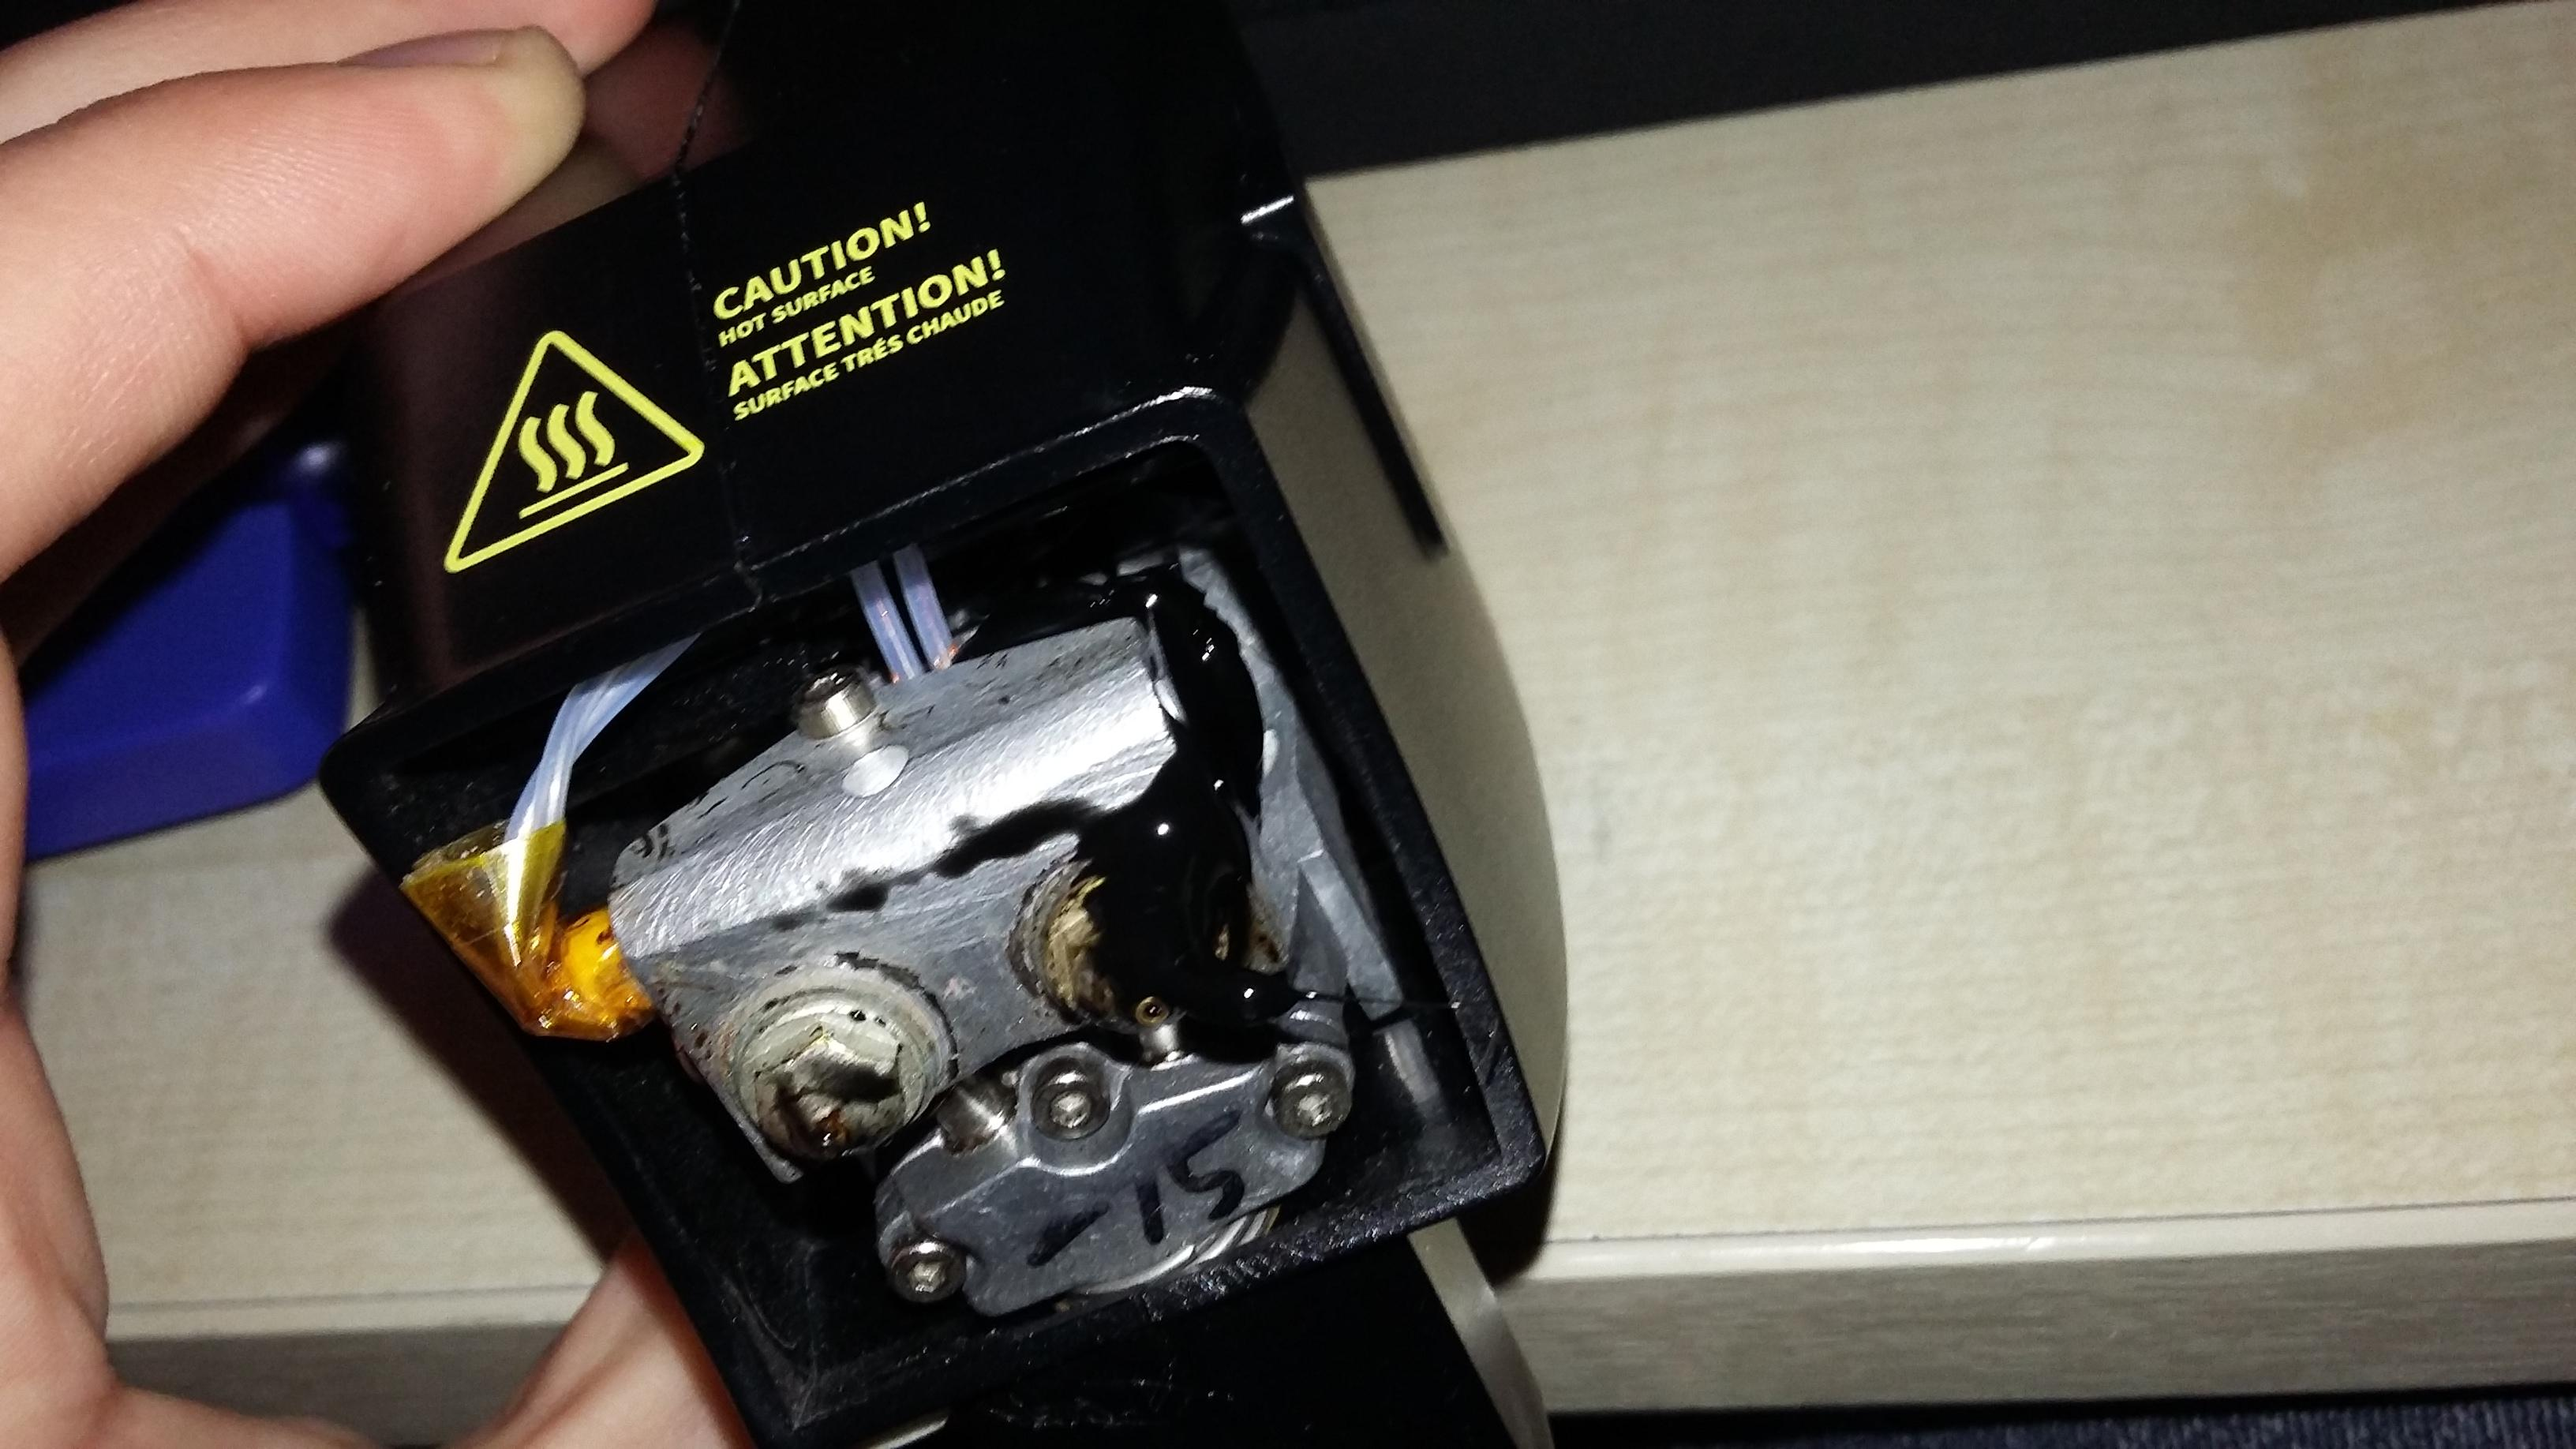
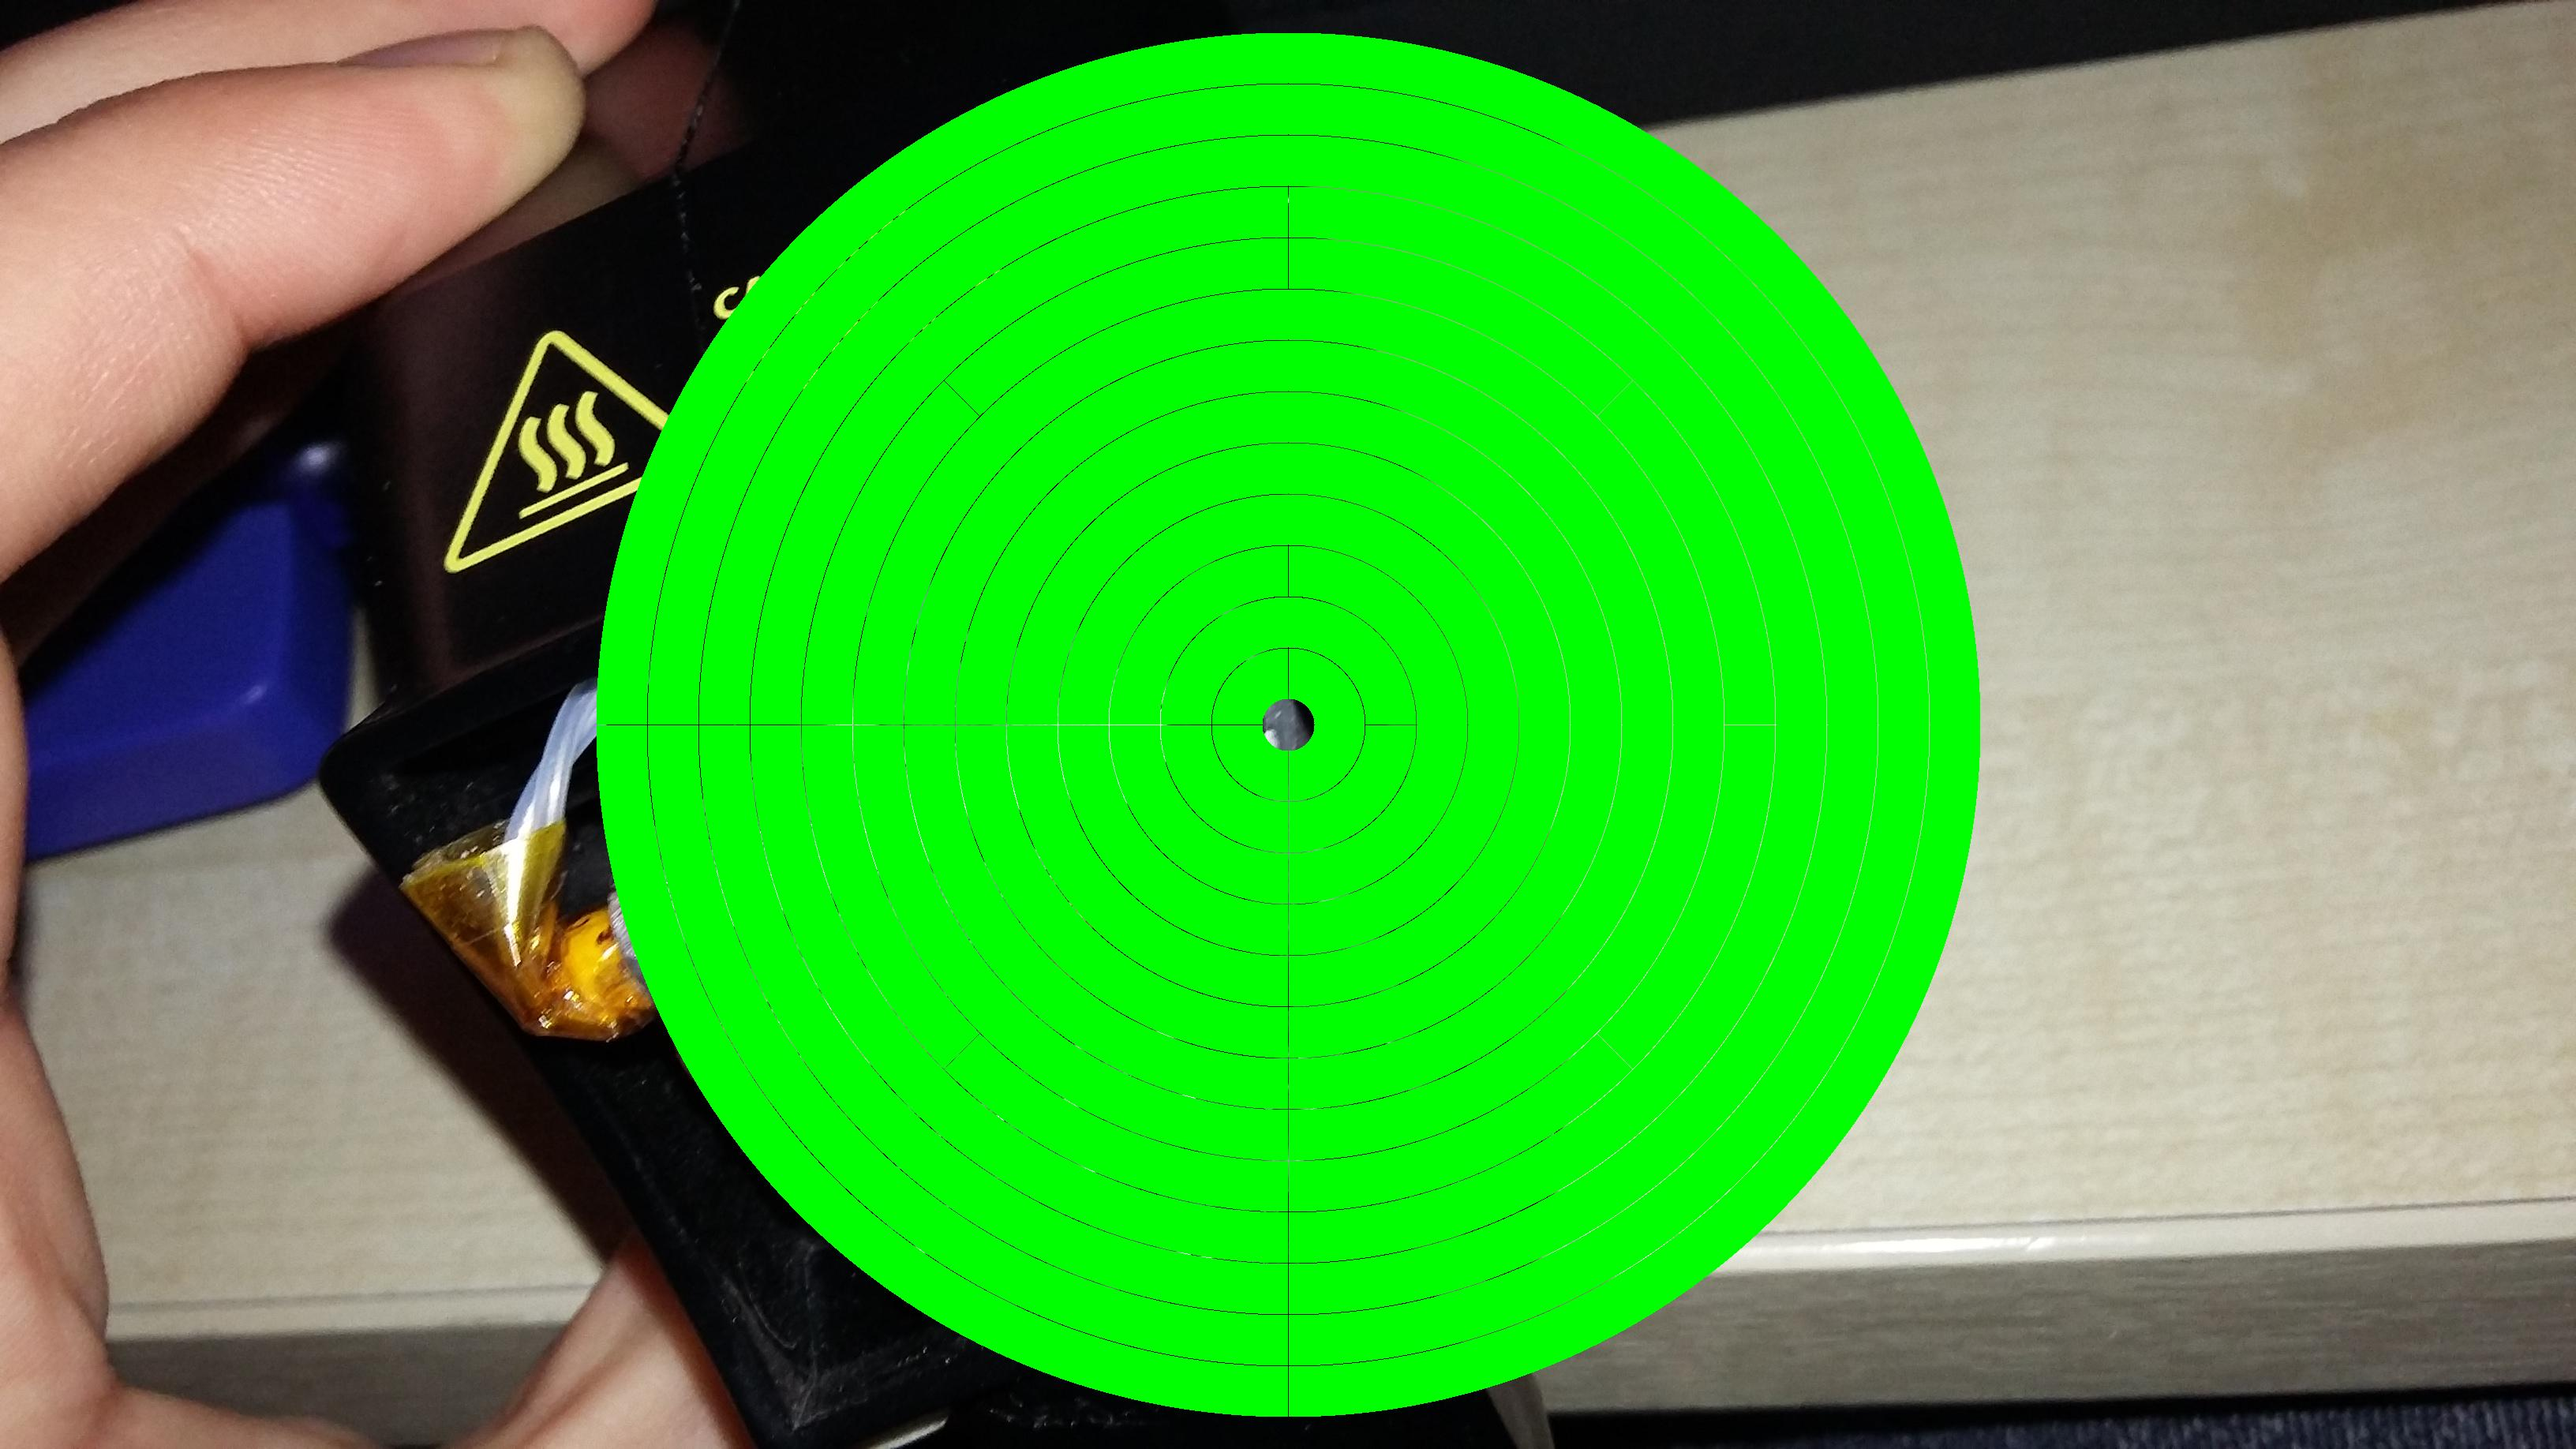
new algorithm works

diff --git a/ImageFormatter.java b/ImageFormatter.java
@@ -31,23 +31,7 @@ public class ImageFormatter
 
   public void formatImage() throws IOException
   {
-    // for (int x = 0; x < pixelHeight; x++)
-    //     for (int y = 0; y < pixelHeight; y++)
-    //     {
-    //         double dx = x - imageCenterX;
-    //         double dy = y - imageCenterY;
-    //         double distanceSquared = dx * dx + dy * dy;
-    //
-    //         if (distanceSquared <= (pixelWidth * pixelWidth))
-    //         {
-    //           outputImage.setRGB(imageCenterX + x, imageCenterY + y,
-    //                              new Color(0, 0, 0).getRGB());
-    //           System.out.println("yay");
-    //         }
-    //         System.out.println("yay2");
-    //     }
-    // File output = new File("test.jpg");
-    // ImageIO.write(outputImage, "jpg", output);
+    //averageSectionColor(300, Math.PI*3/2, Math.PI*2);
 
     for(int radius = 1; radius < 14; radius++)
     {
@@ -63,6 +47,9 @@ public class ImageFormatter
         initAngle = endAngle;
       } // for
     } // for
+
+    File output = new File("test.jpg");
+    ImageIO.write(outputImage, "jpg", output);
   } // formatImage
 
   private Color averageSectionColor(int radius, double initAngle,
@@ -71,34 +58,37 @@ public class ImageFormatter
     int redAverage, greenAverage, blueAverage, pixelCount;
     redAverage = greenAverage = blueAverage = pixelCount = 0;
 
-    for(int currentRadius = radius - pixelHeight / 2;
-        currentRadius <= radius + pixelHeight / 2; currentRadius++)
-    {
-      // arc length formula s = r*theta
-      double angleIncrement = 1 / (double)currentRadius;
-      double currentAngle = initAngle;
+    int outerRad = radius + pixelHeight / 2;
+    int innerRad = radius - pixelHeight / 2;
 
-      while(currentAngle <= endAngle)
+    for(int x=0; x < image.getWidth(); x++)
+      for(int y=0; y < image.getHeight(); y++)
       {
-        Color pixelColor
-          = new Color(image.getRGB(imageCenterX + (int)(currentRadius * Math.sin(currentAngle)),
-                                   imageCenterY + (int)(currentRadius * Math.cos(currentAngle))));
+        double dx = x - imageCenterX;
+        double dy = y - imageCenterY;
+        double distanceSquared = dx*dx + dy*dy;
 
-        // outputImage.setRGB(imageCenterX + (int)(currentRadius * Math.sin(currentAngle)),
-        //                    imageCenterY + (int)(currentRadius * Math.cos(currentAngle)),
-        //                    new Color(0, 0, 0).getRGB());
+        //double currentAngle = Math.atan2(dx, dy);
+        double currentAngle = Math.atan(dx / dy);
+        // 1st and 4th quadrants
+        if(dy < 0) currentAngle += Math.PI;
+        // 3rd quadrant
+        else if(dy > 0 && dx < 0) currentAngle += 2*Math.PI;
 
-        redAverage += pixelColor.getRed();
-        greenAverage += pixelColor.getGreen();
-        blueAverage += pixelColor.getBlue();
-        pixelCount++;
+        if(distanceSquared < outerRad*outerRad
+                && distanceSquared > innerRad*innerRad
+                && currentAngle > initAngle
+                && currentAngle < endAngle)
+        {
+          outputImage.setRGB(x, y, new Color(0, 255, 0).getRGB());
 
-        currentAngle += angleIncrement;
-      } // while
-    } // for
-
-    // File output = new File("test.jpg");
-    // ImageIO.write(image, "jpg", output);
+          Color pixelColor = new Color(image.getRGB(x, y));
+          redAverage += pixelColor.getRed();
+          greenAverage += pixelColor.getGreen();
+          blueAverage += pixelColor.getBlue();
+          pixelCount++;
+        } // if
+      } // for
 
     redAverage /= pixelCount;
     greenAverage /= pixelCount;
